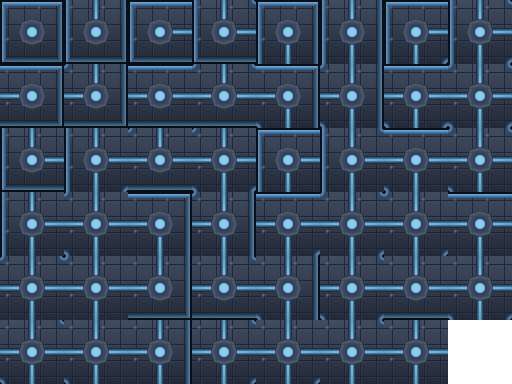
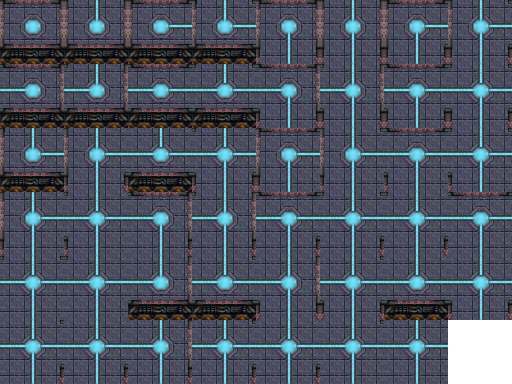
art: the shipped pixels are an artist's, not the generator's
Four assets, delivered 2026-08-19 and dropped in unmodified:

  graphics/entity/balancer-part-variants.png   512x384, 47 cells + 1 unused
  graphics/icons/balancer-part.png             64x64
  graphics/entity/io-arrows.png                256x32, 8 cells
  thumbnail.png                                288x288, the mod logo (new)

Every one is byte-for-byte what the artist sent. Nothing in the guest, the
prototypes or the build moved to accommodate them -- the one code change of
this round (e49cd87) fixes an alignment defect OURS had carried since M5,
which the bolder art exposed rather than caused.

The contract held, which is the part worth recording. The spec handed over
was the cell order ("cell i is the i-th ascending canonical mask, 64x64, 8
per row") and the eight arrow cells in a fixed order pointing the way ITEMS
flow. Both came back correct on the first delivery: the 47 cells compose
seamlessly through every sample assembly, and all eight arrows point the way
the placeholder famously did not.

Checked before landing, not after: 512x384 and 256x32 and 64x64 and 288x288
exactly; all 47 used cells fully opaque and slot 48 fully transparent; no
bleed across any cell boundary; arrow glyphs contained per cell with the
directions asserted against the spec table.

tools/make-graphics.py is untouched and stays. It generates the placeholders,
and more importantly it DEFINES the 47-mask enumeration that guest/go/skin
[…]

diff --git a/CLAUDE.md b/CLAUDE.md
@@ -3154,7 +3154,8 @@ measured rather than asserted:
 | **A Belt Balancer 2 or 3 save becomes one of ours** | Uninstall the incumbent and every `balancer-part` it left standing becomes one of this mod's, at load, once per save: 11 parts on 2 surfaces into 3 clusters that then deliver 3.997x and 2.995x one belt, with the items on the belts conserved exactly (48 copper before and after), the item stacks surviving and placing our parts, and the technology granted. Nothing at all happens while the incumbent is installed, or while any other mod owns the name. Proved against the real Belt Balancer 2 as well as the harness stand-in. "Adopting a Belt Balancer 2 or 3 save" |
 | **Nothing the compiler places draws anything** | The hidden prototypes are clones of base belts and kept base's pictures — including a three-by-three linked-belt `structure` on the one prototype that stands where a player looks. All four are blanked, and the `edge` suite asserts the structural half: 180–197 visible-surface entities of ours, **every one on a registered part tile, 0 off one**, across six samples. "The tan streak" |
 | **Its long-game cost is measured, not assumed** | Every net-zero world operation's permanent-heap slope, flat over hundreds of iterations, a 300-hour projection built on it, and — since 2026-08-02 — the one stall that projection predicted, measured at **782 ms** and then removed by shipping `--gc=collected`. See "The marathon save" and "The third decision" |
-| **It is not shipped** | No mod-portal release, no play-testing outside the suites, placeholder-quality (computed) art. Licensed MIT (`LICENSE`, 2026-08-15) |
+| **The art is drawn, not computed** | All four assets are an artist's, delivered 2026-08-19: the 47-cell sheet, the icon, the I/O arrows and the mod logo. They dropped in with no code change but one alignment constant, because the cell order and the eight arrow cells were a contract the spec stated and the delivery met. `tools/make-graphics.py` still generates the placeholders and still DEFINES that contract; it is the fallback and the specification, not the shipped pixels |
+| **It is not shipped** | No mod-portal release, and no play-testing beyond the suites and one guided pass. Licensed MIT (`LICENSE`, 2026-08-15) |
 
 Final verification, from `make clean`, **2026-08-02**, Factorio 2.0.77, in the
 SHIPPED configuration (`--persist=packed --gc=collected`): `make check` green;
@@ -3387,9 +3388,14 @@ master `6e3eb28`, and `bin/fklua` was rebuilt from it before either arm ran.
 
 1. **A licence.** Nothing can be released without one, and FkLua is in the same
    position — the two want the same answer.
-2. **The art.** `tools/make-graphics.py` computes all 47 cells and the contract
-   with the guest is one line ("cell *i* is the *i*-th ascending canonical
-   mask"). An artist replaces three PNGs and nothing else moves.
+2. **The icon's hard edge, if it is ever worth a round trip.** The art is in
+   (see the Status table). The one measured deviation left is that the icon
+   carries exactly two alpha values, 0 and 255, where all 18 base-game
+   building icons sampled carry 5-26% partial alpha on their silhouette. Its
+   COVERAGE is in family -- 93.4% opaque against a transport belt's 85.6% --
+   so the ask, if made, is antialiasing alone and not a redraw. It costs a
+   slightly cut-out edge at native 64 px and nothing once the GUI scales it
+   down. Polish, not a defect.
 3. **The module size, which is now the whole cost of the `-gc` decision.**
    `fk_module.lua` was 1,899,407 B under the shipped `--gc=collected` when that
    decision was taken and is **2,265,404 B** as of 2026-08-03 (the zip,
@@ -4086,6 +4092,12 @@ brightens north-facing edges and darkens south-facing ones; and a lit core in
 every part with a conduit running to each CONNECTED side, so two neighbours show
 one unbroken lit vein between their cores. Re-theming is the palette block at
 the top of the generator plus one `make graphics`.
+
+**That contract was exercised on 2026-08-19** and it held: an artist replaced
+all three entity PNGs plus a new 288x288 mod logo, and the only thing that had
+to move on this side was one alignment constant in `sprite.lua` -- which was
+fixing a defect of ours that the placeholder had carried since M5, not
+accommodating the new art. See "The I/O arrows" above.
 
 **A future artist replaces the PNGs and keeps the cell order.** The only
 contract is "cell *i* is the shape whose canonical mask is the *i*-th ascending
